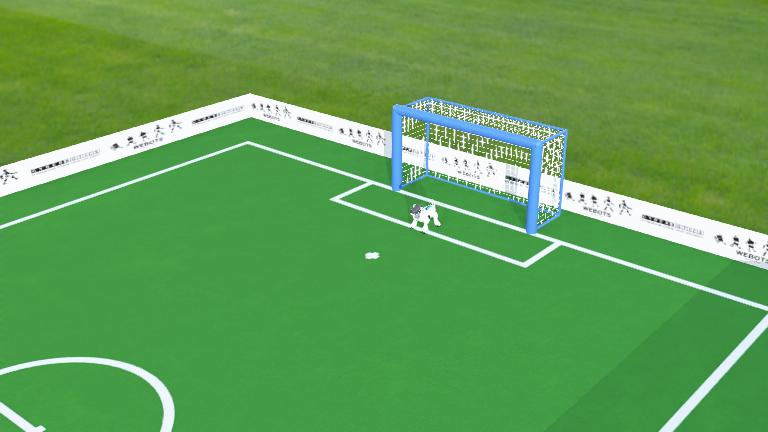
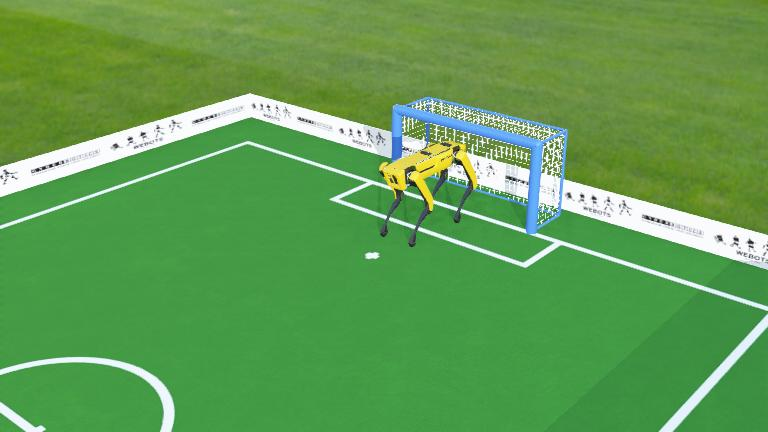
spot

Changed region(s): [[0.4688, 0.2708, 0.625, 0.5718]]

diff --git a/controllers/walking/walkingRobot.py b/controllers/walking/walkingRobot.py
@@ -37,32 +37,26 @@ class WalkingRobot:
         self.rewards = []
         self.forwardRewards = []
         self.fallPenalties = []
+        self.heightPenalties = []
         self.movementPenalties = []
         self.rescaleActionPenalties = []
         self.aliveRewards = []
 
         # Position sensors
-        self.headNear = self.robot.getDevice('PRM:/r1/c1/c2/c3/p1-Sensor:p1')
-        self.headNear.enable(self.timestep)
-        self.headFar = self.robot.getDevice('PRM:/r1/c1/c2/c3/p2-Sensor:p2')
-        self.headFar.enable(self.timestep)
-        self.chest = self.robot.getDevice('PRM:/p1-Sensor:p1')
-        self.chest.enable(self.timestep)
+        self.accelerometer = self.robot.getDevice('accelerometer')
+        self.accelerometer.enable(self.timestep)
+        self.gyro = self.robot.getDevice('gyro')
+        self.gyro.enable(self.timestep)
+        self.inertialUnit = self.robot.getDevice('inertial unit')
+        self.inertialUnit.enable(self.timestep)
 
         # Basic motors
         motorNames = [
-            'PRM:/r4/c1-Joint2:41', 'PRM:/r4/c1/c2-Joint2:42', 'PRM:/r4/c1/c2/c3-Joint2:43',
-            'PRM:/r5/c1-Joint2:51', 'PRM:/r5/c1/c2-Joint2:52', 'PRM:/r5/c1/c2/c3-Joint2:53',
-            'PRM:/r2/c1-Joint2:21', 'PRM:/r2/c1/c2-Joint2:22', 'PRM:/r2/c1/c2/c3-Joint2:23',
-            'PRM:/r3/c1-Joint2:31', 'PRM:/r3/c1/c2-Joint2:32', 'PRM:/r3/c1/c2/c3-Joint2:33'
+            "front left shoulder abduction motor",  "front left shoulder rotation motor",  "front left elbow motor",
+            "front right shoulder abduction motor", "front right shoulder rotation motor", "front right elbow motor",
+            "rear left shoulder abduction motor",   "rear left shoulder rotation motor",   "rear left elbow motor",
+            "rear right shoulder abduction motor",  "rear right shoulder rotation motor",  "rear right elbow motor"
             ]
-            
-        # motorNames = [
-        #     'Right foreleg J1', 'Right foreleg J2', 'Right foreleg J3', 
-        #     'Right hindleg J1', 'Right hindleg J2', 'Right hindleg J3',
-        #     'Left foreleg J1', 'Left foreleg J2', 'Left foreleg J3',
-        #     'Left hindleg J1', 'Left hindleg J2', 'Left hindleg J3'
-        #     ]
         # motorNames = [
         #     'LAnklePitch', 'RAnklePitch', 'LKneePitch', 'RKneePitch', 'LHipPitch', 'RHipPitch',
         #     'LAnkleRoll', 'RAnkleRoll', 'LHipRoll', 'RHipRoll', 'LHipYawPitch', 'RHipYawPitch',
@@ -78,20 +72,18 @@ class WalkingRobot:
         self.actionBounds = torch.tensor(self.actionBounds, dtype=torch.float32, device=self.device)
 
         # Basic motor position sensors
-        motorSensorNames = [
-            'PRM:/r4/c1-JointSensor2:41', 'PRM:/r4/c1/c2-JointSensor2:42', 'PRM:/r4/c1/c2/c3-JointSensor2:43',
-            'PRM:/r5/c1-JointSensor2:51', 'PRM:/r5/c1/c2-JointSensor2:52', 'PRM:/r5/c1/c2/c3-JointSensor2:53',
-            'PRM:/r2/c1/c2-JointSensor2:22', 'PRM:/r2/c1/c2/c3-JointSensor2:23',
-            'PRM:/r3/c1-JointSensor2:31', 'PRM:/r3/c1/c2-JointSensor2:32', 'PRM:/r3/c1/c2/c3-JointSensor2:33'
-            ]
+        # motorSensorNames = [
+        #     'LAnklePitchS', 'RAnklePitchS', 'LKneePitchS', 'RKneePitchS', 'LHipPitchS', 'RHipPitchS',
+        #     'LShoulderPitchS', 'RShoulderPitchS',
+        #     ]
         self.motorSensors = []
-        for motorSensorName in motorSensorNames:
-            motorSensor = self.robot.getDevice(motorSensorName)
-            motorSensor.enable(self.timestep)
-            self.motorSensors.append(motorSensor)
+        # for motorSensorName in motorSensorNames:
+        #     motorSensor = self.robot.getDevice(motorSensorName)
+        #     motorSensor.enable(self.timestep)
+        #     self.motorSensors.append(motorSensor)
 
         # Initialize agent
-        stateDim = len(self.motorSensors)
+        stateDim = 8 + len(self.motorSensors)
         actionDim = len(self.motors)
         self.agent = Agent_PPO(stateDim, actionDim, self.gamma, self.lmd, self.policyLR, self.valueLR, self.device)
         
@@ -115,7 +107,7 @@ class WalkingRobot:
     def isTerminal(self, step):
         if step >= self.maxStep:
             return True
-        if self.robot.getFromDef('Robot').getField('translation').getSFVec3f()[2] < 0.10:
+        if self.robot.getFromDef('Robot').getField('translation').getSFVec3f()[2] < 0.4:
             return True
         return False
 
@@ -144,6 +136,9 @@ class WalkingRobot:
 
     def genStateVec(self):
         stateVec = torch.tensor([], dtype=torch.float32, device=self.device)
+        stateVec = torch.cat((stateVec, torch.tensor(self.accelerometer.getValues(), dtype=torch.float32, device=self.device)))
+        stateVec = torch.cat((stateVec, torch.tensor(self.gyro.getValues()[0:2], dtype=torch.float32, device=self.device)))
+        stateVec = torch.cat((stateVec, torch.tensor(self.inertialUnit.getRollPitchYaw(), dtype=torch.float32, device=self.device)))
         for motorSensor in self.motorSensors:
             stateVec = torch.cat((stateVec, torch.tensor([motorSensor.getValue()], dtype=torch.float32, device=self.device)))
         return stateVec
@@ -157,21 +152,24 @@ class WalkingRobot:
 
     def observeReward(self):
         # Encourage to move forward
-        forwardReward = 5000 * (self.position[1] - self.prevPosition[1]) if self.prevPosition is not None else 0
+        forwardReward = 2000 * (self.position[1] - self.prevPosition[1]) if self.prevPosition is not None else 0
         # Penalty for falling
-        fallPenalty = 100 * (self.position[2] < 0.10)
+        fallPenalty = 10 * (self.position[2] < 0.5)
+        # Penalty for large change in height
+        heightPenalty = 10 * (self.position[2] - self.prevPosition[2]) if self.prevPosition is not None else 0
         # Penalty for too large clipping in motor movement
-        rescaleActionPenalty = 0.005 * torch.norm(self.actionVec - self.rescaleActionVec(self.actionVec)).item()
+        rescaleActionPenalty = 0.05 * torch.norm(self.actionVec - self.rescaleActionVec(self.actionVec)).item()
         # Encourage to stay alive
-        aliveReward = 2
+        aliveReward = 10
         # Penalty for too large change in action
         movementPenalty = 0.2 * torch.norm(self.rescaleActionVec(self.actionVec) - self.rescaleActionVec(self.prevActionVec)).item() if self.prevActionVec is not None else 0
-        reward = forwardReward - movementPenalty - fallPenalty - rescaleActionPenalty + aliveReward
+        reward = forwardReward - movementPenalty - fallPenalty - rescaleActionPenalty + aliveReward - heightPenalty
         reward /= 20
         self.reward = reward
         self.rewards.append(reward)
         self.forwardRewards.append(forwardReward)
         self.fallPenalties.append(fallPenalty)
+        self.heightPenalties.append(heightPenalty)
         self.rescaleActionPenalties.append(rescaleActionPenalty)
         self.aliveRewards.append(aliveReward)
         self.movementPenalties.append(movementPenalty)
@@ -206,6 +204,7 @@ class WalkingRobot:
         plt.figure()
         plt.plot(self.forwardRewards, label='Forward Reward')
         plt.plot(self.fallPenalties, label='Fall Penalty')
+        plt.plot(self.heightPenalties, label='Height Penalty')
         plt.plot(self.movementPenalties, label='Movement Penalty')
         plt.plot(self.rescaleActionPenalties, label='Rescale Action Penalty')
         plt.plot(self.aliveRewards, label='Alive Reward')

diff --git a/controllers/walking/walking.py b/controllers/walking/walking.py
@@ -37,7 +37,7 @@ while walkingRobot.robot.step(timestep) != -1:
         walkingRobot.reset()
         step = 0
         episode += 1
-        if episode % 50 == 0:
+        if episode % 1000 == 0:
             # pass
             walkingRobot.plot(episode)
         continue
